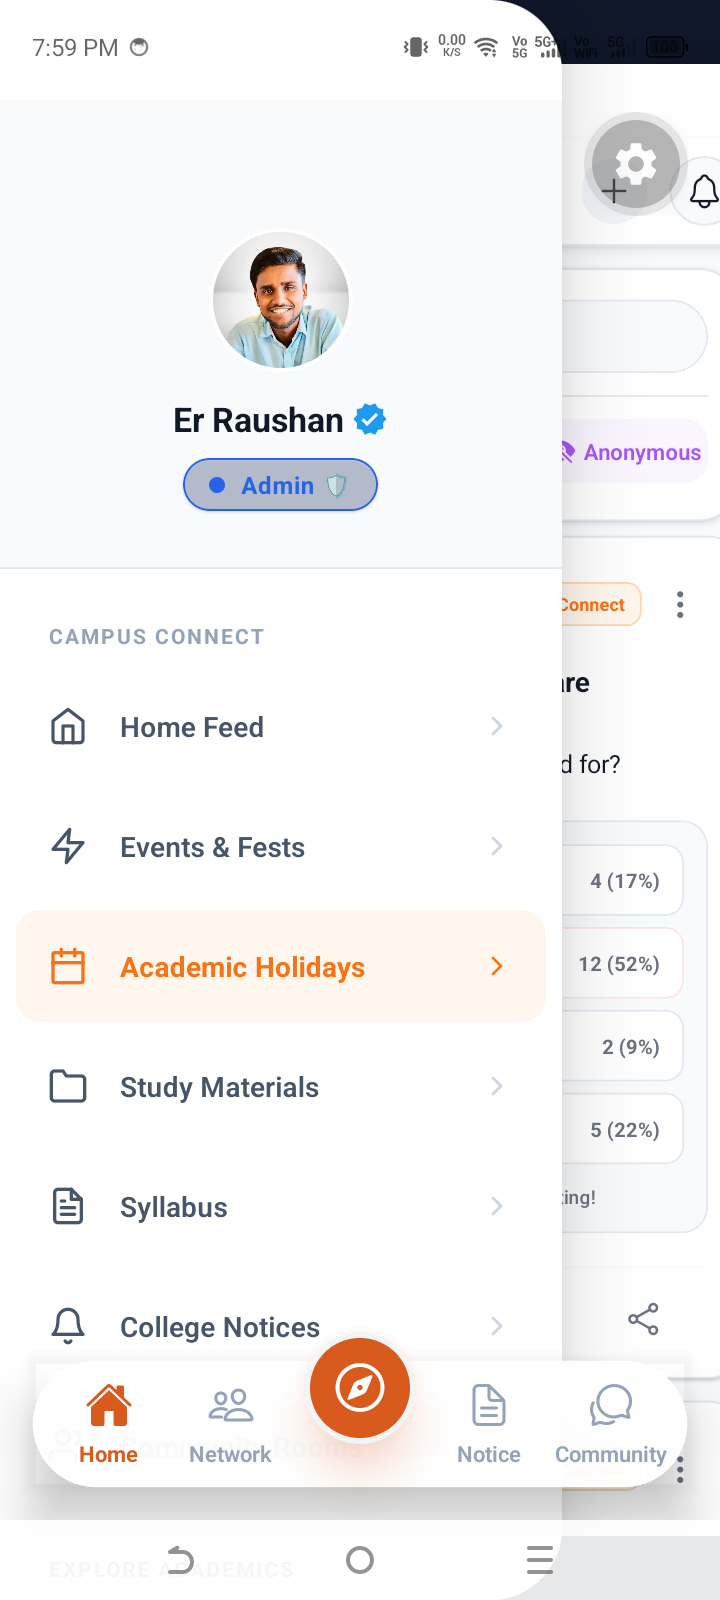
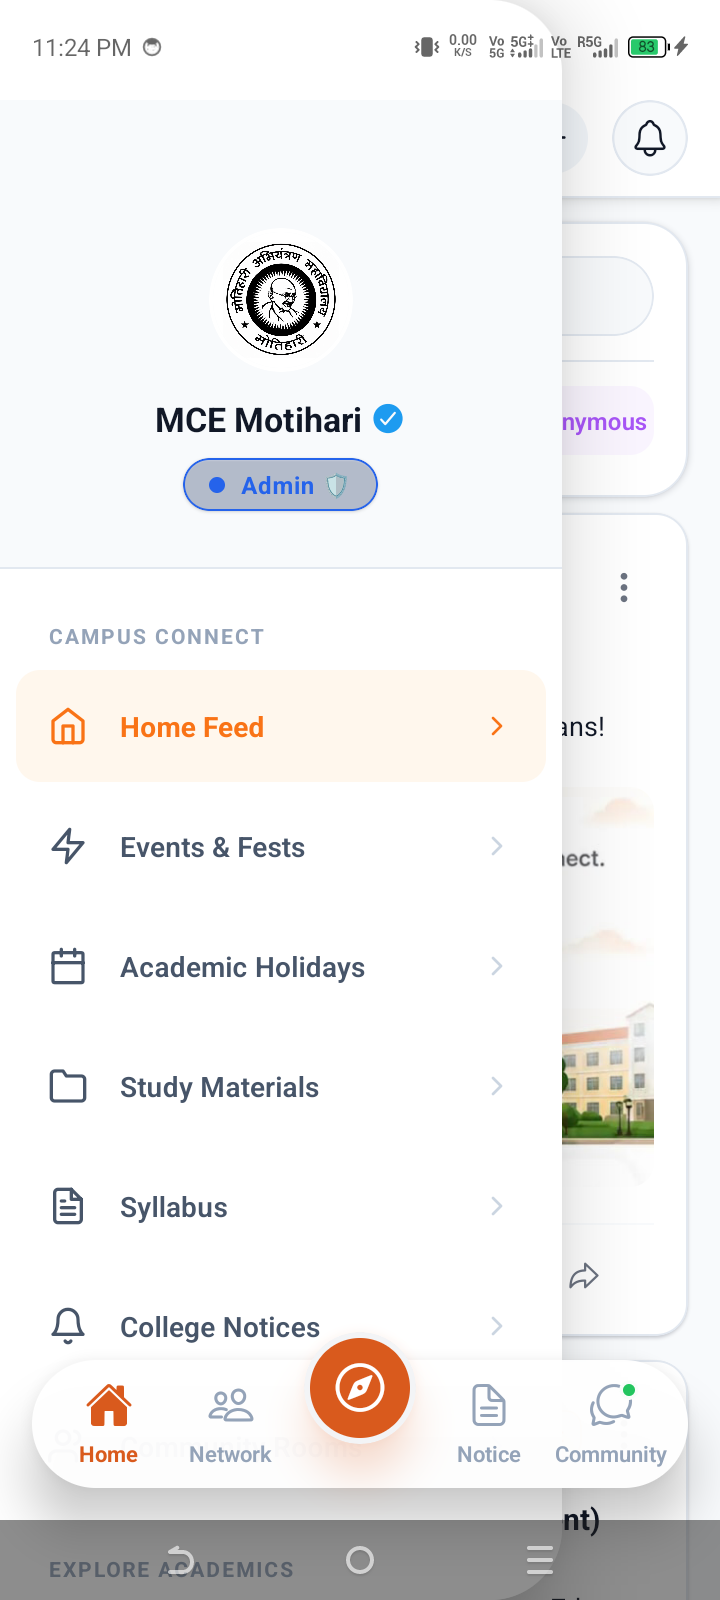
Hide bottom tab bar dynamically when drawer is open to prevent layering issues and allow clean tap-outside-to-close

diff --git a/src/components/drawer/CustomDrawer.tsx b/src/components/drawer/CustomDrawer.tsx
@@ -7,6 +7,7 @@ import { DrawerFooter } from './DrawerFooter';
 import { UserProfile } from '@/hooks/useAuth';
 import { useThemeColors } from '@/hooks/useThemeColors';
 import { useSafeAreaInsets } from 'react-native-safe-area-context';
+import { useNavigation } from 'expo-router';
 
 const { width } = Dimensions.get('window');
 const DRAWER_WIDTH = Math.min(width * 0.78, 310); // Clamped width for responsive tablet/large screen scaling
@@ -40,8 +41,20 @@ export const CustomDrawer = forwardRef<CustomDrawerRef, CustomDrawerProps>(({
 }, ref) => {
   const theme = useThemeColors();
   const insets = useSafeAreaInsets();
+  const navigation = useNavigation();
   const [isOpenJS, setIsOpenJS] = useState(false);
   const [isAnimating, setIsAnimating] = useState(false);
+
+  // Hide bottom tab bar dynamically when drawer is open
+  useEffect(() => {
+    try {
+      navigation.setOptions({
+        tabBarStyle: isOpenJS ? { display: 'none' } : undefined
+      });
+    } catch (e) {
+      // Ignore if navigation is not mounted or doesn't support tabBarStyle options
+    }
+  }, [isOpenJS, navigation]);
   
   // Decoupled animations to avoid Safari rendering bottlenecks/flickers
   const progressAnim = useRef(new Animated.Value(0)).current;
@@ -311,7 +324,7 @@ export const CustomDrawer = forwardRef<CustomDrawerRef, CustomDrawerProps>(({
   const overlayStyle = {
     opacity: overlayAnim.interpolate({
       inputRange: [0, 1],
-      outputRange: [0, 0.45],
+      outputRange: [0.01, 1],
     }),
   };
 
@@ -566,8 +579,12 @@ const styles = StyleSheet.create({
     backgroundColor: '#F8FAFC',
   },
   overlayShadow: {
-    ...StyleSheet.absoluteFillObject,
-    backgroundColor: '#000000',
+    position: 'absolute',
+    left: 0,
+    top: 0,
+    width: '100%',
+    height: '100%',
+    backgroundColor: 'rgba(0, 0, 0, 0.45)',
     zIndex: 9,
     elevation: 20,
   },
